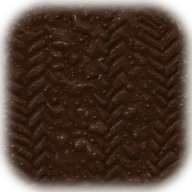
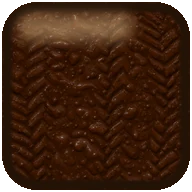
Fango più visibile, schizzi quando si pulisce
Claude-Session: https://claude.ai/code/session_01NjZ5nCUSF4CmAmZvgnbkuH

diff --git a/style.css b/style.css
@@ -83,8 +83,8 @@ button { font-family: inherit; cursor: pointer; border: 0; }
 .cellbg { position: absolute; width: var(--cell); height: var(--cell); }
 .cellbg { background: rgba(255,240,200,.10); }
 .cellbg.dark { background: rgba(255,240,200,.04); }
-.mud { position: absolute; width: var(--cell); height: var(--cell); background-size: 100% 100%; transition: opacity .3s; }
-.tile { position: absolute; left: 0; top: 0; width: var(--cell); height: var(--cell); background-size: 94%; background-repeat: no-repeat; background-position: center; will-change: transform; filter: drop-shadow(0 2px 1px rgba(0,0,0,.35)); transition: transform .16s ease-in; }
+.mud { position: absolute; width: var(--cell); height: var(--cell); background-size: 100% 100%; transition: opacity .3s; filter: drop-shadow(0 0 3px rgba(60,30,8,.9)); }
+.tile { position: absolute; left: 0; top: 0; width: var(--cell); height: var(--cell); background-size: 84%; background-repeat: no-repeat; background-position: center; will-change: transform; filter: drop-shadow(0 2px 1px rgba(0,0,0,.35)); transition: transform .16s ease-in; }
 .tile.sel { filter: brightness(1.25) drop-shadow(0 0 6px #fff); }
 .tile.power { animation: glow 1.2s ease-in-out infinite; }
 @keyframes glow { 50% { filter: drop-shadow(0 0 7px #fff7a8) brightness(1.1); } }

diff --git a/index.html b/index.html
@@ -5,7 +5,7 @@
 <meta name="viewport" content="width=device-width, initial-scale=1, viewport-fit=cover, user-scalable=no">
 <meta name="theme-color" content="#2a8a37">
 <title>EDT Kingdom</title>
-<link rel="stylesheet" href="style.css?v=2">
+<link rel="stylesheet" href="style.css?v=3">
 <link rel="manifest" href="manifest.json">
 <link rel="icon" href="icon.svg" type="image/svg+xml">
 </head>
@@ -57,6 +57,6 @@
   </div>
   <div id="toast" class="toast"></div>
 </div>
-<script type="module" src="js/game.js?v=2"></script>
+<script type="module" src="js/game.js?v=3"></script>
 </body>
 </html>

diff --git a/js/game.js b/js/game.js
@@ -465,7 +465,7 @@ async function doClear(clear, matched, created, pre = []) {
       killTile(t, r, c, n++);
       b.grid[r][c] = null;
     }
-    if (b.mud[r][c] > 0) { b.mud[r][c]--; credit('mud', r, c); }
+    if (b.mud[r][c] > 0) { b.mud[r][c]--; credit('mud', r, c); const [mx, my] = cellCenter(r, c); FX.burst(mx, my, '#7a4a20', 6, .8); FX.dust(mx, my, 2, 'rgba(110,70,30,.85)'); }
   }
   for (const cr of created) {
     const [r, c] = unkey(cr.at);
